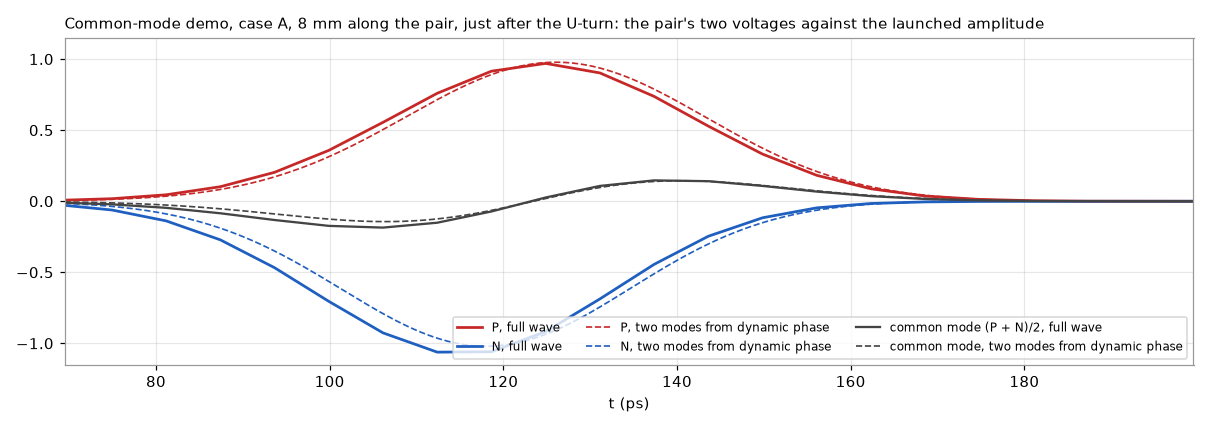
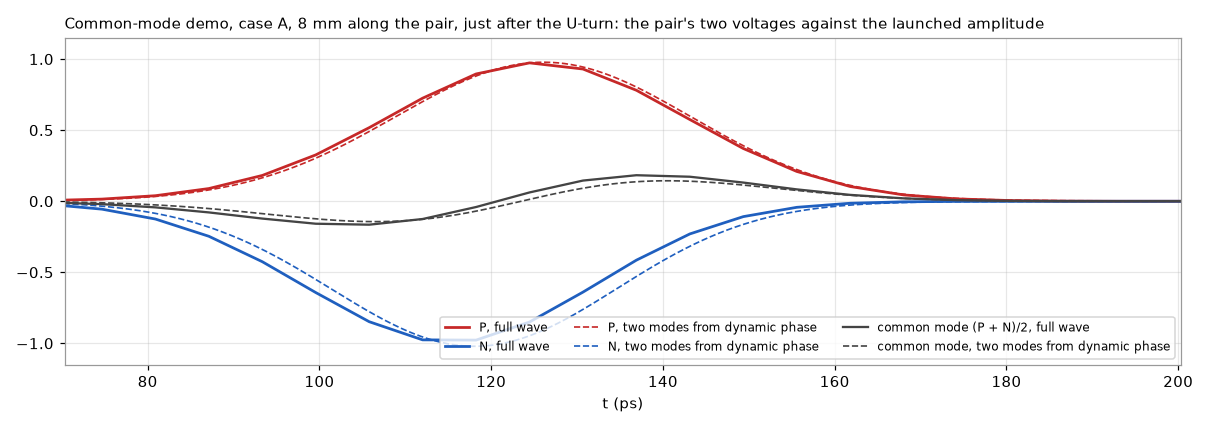
Dynamic phase guide: the full-wave comparison redone on a mesh symmetric about the pair
The earlier reference mesh was not symmetric between P and N: the launch alone made 4 %
common mode and a plain straight pair drifted. On a mirror-symmetric mesh the turn's
common mode is 1.2 times the model's, the bumps' within 7 %, B's bumps cut it from 0.18
to 0.07 of the launch and A's leave it; a slow growth along straight coupled stretches
stays unexplained. A per-trace Δt from a field solver is not skew once common mode
exists, so the guide compares the common mode instead, with a figure for A and B.

diff --git a/docs/high-speed/dynamic-phase.md b/docs/high-speed/dynamic-phase.md
@@ -116,7 +116,7 @@ Skew turns differential signal into common mode. With P behind N by a small $\de
 
 $$V_\text{diff} = \frac{V_P - V_N}{2} \approx v\!\left(t - \tfrac{\delta}{2}\right), \qquad V_\text{cm} = \frac{V_P + V_N}{2} \approx -\frac{\delta}{2}\,\frac{dv}{dt}$$
 
-a common-mode pulse shaped like the edge's derivative, of order $\delta / t_r$ of the differential amplitude for a rise time $t_r$. A compensating bump $L$ mm further on makes the opposite pulse, aligned with the differential edge as it is then; the first one has fallen behind by $(\tau_\text{e} - \tau_\text{o})\,L$, and the two cancel only while that lag is small against $t_r$. That is the mode lag dynamic phase reports for each excursion (the lag per mm at the gap there, added up along both sides of the stretch; 0 where a side runs alone and on stripline): compare it with your edge's rise time. On the common-mode demo's pair (0.2 mm traces, 0.25 mm apart, 0.12 mm over εr 4.1) the lag is about 0.33 ps/mm, so a fix 73 mm along the pair from the turn (case A, the serpentine included) comes 24 ps late for a 25 ps edge and leaves two common-mode pulses (the full-wave run puts the common mode about 20 ps behind there), while a fix 2 mm away (case B) cancels; a full-wave run gives a common-mode peak at J1 of 32 % of the differential one for A against 14 % for B. With a tuning profile the lag is in the profile's scale, as the delay is. Beside a pour the odd mode's ratio is applied to both modes; the pour's own effect on the even mode is not modelled.
+a common-mode pulse shaped like the edge's derivative, of order $\delta / t_r$ of the differential amplitude for a rise time $t_r$. A compensating bump $L$ mm further on makes the opposite pulse, aligned with the differential edge as it is then; the first one has fallen behind by $(\tau_\text{e} - \tau_\text{o})\,L$, and the two cancel only while that lag is small against $t_r$. That is the mode lag dynamic phase reports for each excursion (the lag per mm at the gap there, added up along both sides of the stretch; 0 where a side runs alone and on stripline): compare it with your edge's rise time. On the common-mode demo's pair (0.2 mm traces, 0.25 mm apart, 0.12 mm over εr 4.1) the lag is about 0.33 ps/mm, so a fix 73 mm along the pair from the turn (case A, the serpentine included) comes 24 ps late for a 25 ps edge and leaves two common-mode pulses (the full-wave run's two modes run 0.21 ps/mm apart, 16 ps over that stretch), while a fix 2 mm away (case B) cancels; the full-wave run gives a common-mode peak at J1 of 32 % of the differential one for A against 16 % for B. With a tuning profile the lag is in the profile's scale, as the delay is. Beside a pour the odd mode's ratio is applied to both modes; the pour's own effect on the even mode is not modelled.
 
 ### The equations behind it
 
@@ -146,7 +146,7 @@ with its first peak at $f = 1/(2\delta)$: the measure channel standards use for 
 
 $$e_\text{left}(t) = \tfrac{\delta}{2}\,\big[\,s'(t - \tau_\text{o}\ell - \tfrac{\delta}{2}) - s'(t - \tau_\text{e}\ell - \tfrac{\delta}{2})\,\big] \approx -\tfrac{\delta}{2}\,\Delta\tau\;s''\!\left(t - \tau_\text{o}\ell - \tfrac{\delta}{2}\right)$$
 
-for $\Delta\tau$ small against the edge's rise time $t_r$. Its size next to the differential signal is then of order $\delta\,\Delta\tau / t_r^2$, within a factor of a few that depends on the edge's shape; once $\Delta\tau$ exceeds the edge the two pulses no longer overlap and what is left is simply the whole common mode, twice over. On the demo's case A, $\delta$ = 8 ps, $\Delta\tau$ = 24 ps (73 mm of coupled pair between the turn and the bumps) and $t_r$ ≈ 25 ps: the order-of-magnitude form gives 0.3, the exact expression for a Gaussian pulse of that rise time 0.43, and the full-wave run gives 0.32 (the common-mode peak over the differential peak at J1's ports), so the three agree within a factor of two. Case B, $\Delta\tau$ under 1 ps, gives 0.02; the 0.14 measured there has other sources (the turn's own change of coupling, the bumps' lone stretches, the serpentine), so the estimate is only a floor. One run each.
+for $\Delta\tau$ small against the edge's rise time $t_r$. Its size next to the differential signal is then of order $\delta\,\Delta\tau / t_r^2$, within a factor of a few that depends on the edge's shape; once $\Delta\tau$ exceeds the edge the two pulses no longer overlap and what is left is simply the whole common mode, twice over. On the demo's case A, $\delta$ = 8 ps, $\Delta\tau$ = 24 ps (73 mm of coupled pair between the turn and the bumps) and $t_r$ ≈ 25 ps: the order-of-magnitude form gives 0.3, the exact expression for a Gaussian pulse of that rise time 0.43, and the full-wave run gives 0.32 (the common-mode peak over the differential peak at J1's ports), so the three agree within a factor of two. Case B, $\Delta\tau$ under 1 ps, gives 0.02; the 0.16 measured there has other sources (the turn's own change of coupling, the bumps' lone stretches, the serpentine), so the estimate is only a floor. One run each.
 
 ### Why Δt holds up when the estimate is off
 
@@ -205,12 +205,15 @@ The synthetic boards in [`tests/phase_boards.py`](../../tests/phase_boards.py) a
 | No εr in the stackup | FR-4 is used and named as the source |
 | Microstrip vs stripline | microstrip is faster |
 | Coupled pair, and one beside a pour | within 1.5 % of a 2D field solver ([`tests/field_solver.py`](../../tests/field_solver.py)), which itself matches Kirschning and Jansen and Hammerstad and Jensen within 0.4 % |
-| The two traces' signals | from the model's skew, odd-mode delays and mode lag, the two voltages along the pair rebuilt with the modal solution above (every step a delay or a half-sum, done in the frequency domain) and compared with the full-wave run's probes on the demo's case A. Just after the U-turn they lie on each other, the common-mode doublet included (figure below), the full-wave common mode 1.3 times larger than the turn's centreline skew of 8.3 ps makes it; the demo's bumps convert by the same factor 1.3 over their own skew. The extra is the discontinuity itself, which reflects differently on the two traces, and it is not in a delay model. Along the straight coupled stretch that follows, the full-wave common mode also creeps up, by a tenth over 10 mm after the turn alone and by a third over the 20 mm before case A's serpentine, which a uniform coupled line cannot do. Both are left out of the model on purpose, and together they are why a probe's centroid on each trace drifts along that stretch in the full-wave run while the model's reading of the same probe does not |
-| Even mode and mode lag | the even mode is slower than the odd mode on an outer layer, equal inside, the lone line's far apart and a line twice as wide for touching traces; the far-compensated board's excursion carries a lag proportional to its length (about 6 ps over 45 mm at the 1 mm pitch), the locally compensated one under a tenth of that, a stripline pair none. Against the field solver with a magnetic wall at the pair's midline (run on 2026-10-16, not in the repository) Kirschning and Jansen's even mode is within 1 % on the demo pair, the MIPI pair and the test boards' pair; the lag per mm, a difference of two roots, reads 1 to 10 % above the solver's (demo pair 0.33 against 0.30 ps/mm). In the full-wave run of the demo's case A the common and differential pulses, taken as the half-sum and half-difference of the probes side by side, run at 6.04 and 5.83 ps/mm along the straight stretch after the turn: a lag of 0.21 ps/mm, two thirds of the model's, on a finite board with its plane 3 mm beyond the copper and a mesh of three cells per dielectric height (one run, no finer mesh tried) |
+| The two traces' signals | from the model's skew, odd-mode delays and mode lag, the two voltages along the pair rebuilt with the modal solution above (every step a delay or a half-sum, done in the frequency domain) and compared with the full-wave run's probes on the demo's case A, on a mesh mirror-symmetric about the pair (on one that is not, the launch alone makes 4 % common mode and a plain straight pair drifts, so that reference was discarded). Just after the U-turn they lie on each other, the common-mode doublet included (figure below): the full-wave common mode is 0.17 of the launched pulse against 0.144 from the turn's centreline skew, 1.2 times, and the demo's bumps convert within 7 % of their skew. Along the straight coupled stretch that follows, the full-wave common mode keeps growing by about 0.005 of the launch per mm, after the turn alone, before A's serpentine and after B's bumps alike, within 40 ps of the differential pulse, so not a reflection, and on a symmetric mesh, so not an asymmetry: a uniform coupled line cannot do it and it is not understood. The serpentine's swings read 1.5 times the model's. A probe's timing on one trace mixes the two modes, so a full-wave per-trace Δt is not the skew the tool computes once common mode exists; the charts compare the common mode instead (second figure) |
+| Common mode along the pair | the full-wave common mode against the model's two-mode prediction on A and B (second figure): the turn makes it in both, B's bumps 2 mm later cut it from 0.18 to 0.07 (model 0.03), A's bumps at J1 leave it, and the serpentine's bends swing it in both; at J1's ports the common-mode peak is 32 % of the differential one for A and 16 % for B |
+| Even mode and mode lag | the even mode is slower than the odd mode on an outer layer, equal inside, the lone line's far apart and a line twice as wide for touching traces; the far-compensated board's excursion carries a lag proportional to its length (about 6 ps over 45 mm at the 1 mm pitch), the locally compensated one under a tenth of that, a stripline pair none. Against the field solver with a magnetic wall at the pair's midline (run on 2026-10-16, not in the repository) Kirschning and Jansen's even mode is within 1 % on the demo pair, the MIPI pair and the test boards' pair; the lag per mm, a difference of two roots, reads 1 to 10 % above the solver's (demo pair 0.33 against 0.30 ps/mm). In the full-wave run of the demo's case A the common and differential pulses, taken as the half-sum and half-difference of the probes side by side, run at 6.04 and 5.83 ps/mm along the straight stretch after the turn: a lag of 0.21 ps/mm, two thirds of the model's, on a finite board with its plane 3 mm beyond the copper and a mesh, mirror-symmetric about the pair, of three cells per dielectric height (one run, no finer mesh tried) |
 | Stackup from the board file | εr is read from the `.kicad_pcb` text |
 | Live tracker | recomputes only changed pairs, spreads work over polls, follows Blender's settings |
 
 <img src="common-mode-waveforms.png" alt="P and N voltages 8 mm along the demo pair, just after the U-turn: the full-wave run's probes and the two-mode reconstruction from dynamic phase lie on each other, the common-mode doublet included" width="760">
+
+<img src="common-mode-along.png" alt="Common mode along the demo pair for cases A and B, the full-wave run against the model's two-mode prediction: the turn makes it, B's bumps right after cut it, A's bumps at the far end leave it" width="760">
 
 **Still to do:** compare the end-to-end P and N delays with KiCad's own time-domain tuning on a real board with a tuning profile. They should match wherever the pair runs at the profile's gap, and differ by the lone stretches' few percent elsewhere.
 
